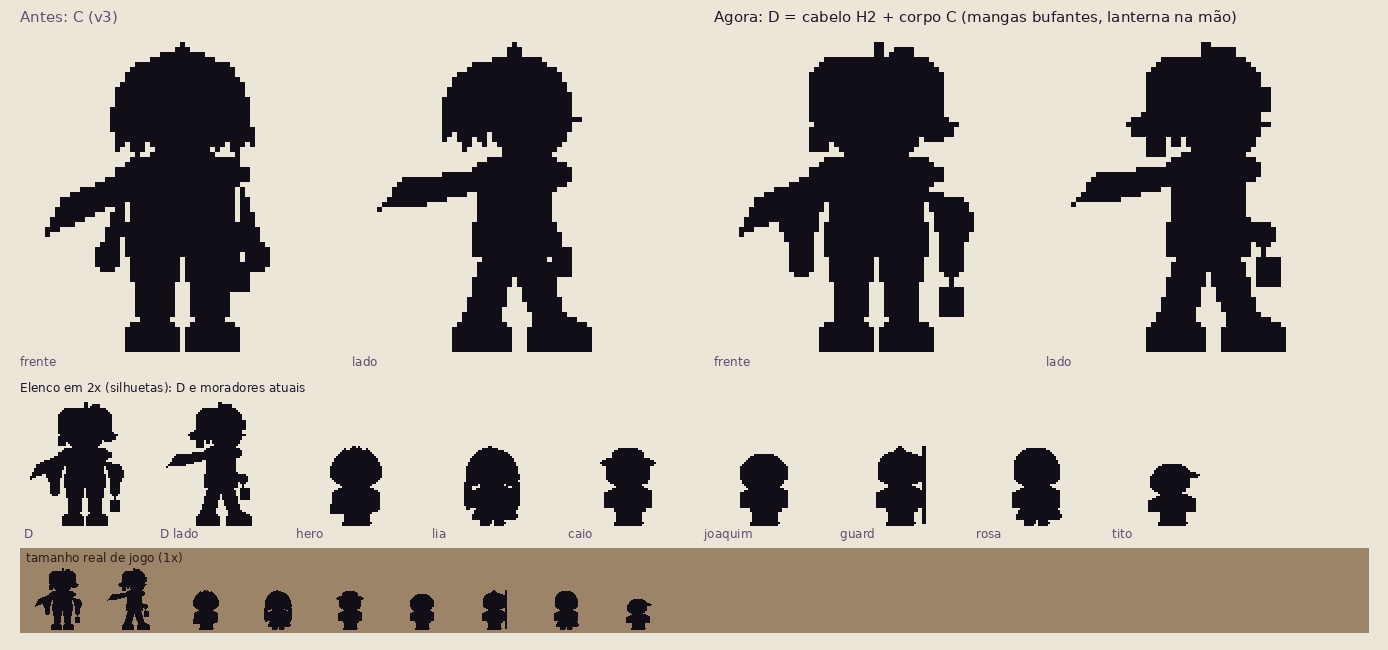
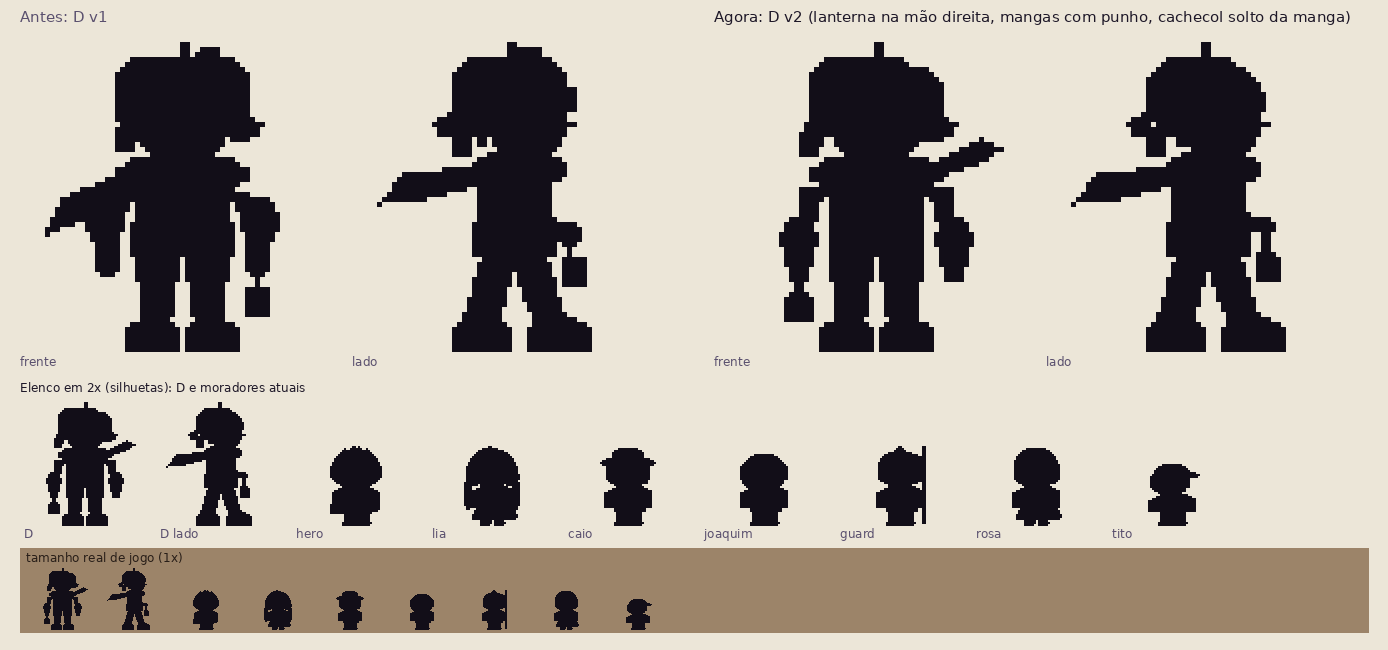
Hero: direction D v2 (lantern in right hand, cuffed puffy sleeves, scarf tail separated, cleaner hair top)
Claude-Session: https://claude.ai/code/session_01SH8uRb7GcbEgPpRqd4KMaR

diff --git a/assets/characters/hero/concepts/silhouettes/direction_D.py b/assets/characters/hero/concepts/silhouettes/direction_D.py
@@ -14,30 +14,37 @@ spec = importlib.util.spec_from_file_location("ms", os.path.join(HERE, "make_sil
 ms = importlib.util.module_from_spec(spec); spec.loader.exec_module(ms)
 BLACK = ms.BLACK
 
+# v2 (após crítica da D v1): lanterna sempre na MÃO DIREITA (frente: lado esquerdo da tela);
+# ponta do cachecol na frente vai para o outro lado, curta e alta (não funde com a manga);
+# manga bufante com volume no cotovelo/antebraço + punho franzido + mão; tronco reto (vão de 2 px em toda a altura);
+# lanterna com alça, tampa, corpo e base; topo do cabelo: só o fio + degrau raso de 2 px (sem "copa de chapéu").
 D_S = [
-    # cabelo H2 na escala da cabeça de C
-    ("rr", [19, 5, 45, 20, 5]), ("p", [(34, 6), (36, 3), (39, 3), (40, 6)]),
-    ("r", [19, 19, 22, 23]), ("r", [23, 19, 24, 21]), ("r", [42, 19, 45, 21]),
-    ("p", [(45, 16), (48, 18), (47, 20), (45, 20)]), ("r", [32, 2, 33, 4]),
-    ("e", [23, 9, 41, 26]),                                         # rosto: bochecha/mandíbula aparecem abaixo do cabelo
-    ("e", [19, 24, 45, 32]), ("p", [(21, 27), (8, 33), (5, 40), (12, 37), (23, 32)]),   # cachecol + ponta ao vento
-    ("p", [(23, 30), (41, 30), (42, 44), (22, 44)]),               # tronco
-    ("p", [(23, 31), (19, 32), (17, 35), (21, 35)]), ("e", [13, 33, 20, 42]), ("r", [15, 42, 19, 44]), ("e", [15, 44, 19, 48]),   # manga bufante esq.
-    ("p", [(41, 31), (45, 32), (47, 35), (43, 35)]), ("e", [44, 33, 51, 42]), ("r", [45, 42, 49, 44]), ("e", [45, 44, 49, 48]),   # manga bufante dir.
-    ("r", [47, 49, 47, 50]), ("r", [45, 51, 49, 56]),              # lanterna na mão direita
+    ("rr", [19, 5, 40, 20, 5]), ("rr", [26, 7, 45, 20, 5]),        # topo com degrau raso à direita
+    ("p", [(19, 17), (17, 20), (17, 24), (20, 24), (22, 19)]),     # mecha comprida abrindo para fora
+    ("r", [41, 19, 45, 21]), ("p", [(45, 16), (48, 18), (47, 20), (45, 20)]),   # mecha curta + mecha virada para fora
+    ("r", [32, 2, 33, 4]),                                          # fio do topo (ficha)
+    ("e", [23, 9, 41, 26]),
+    ("e", [19, 24, 45, 32]), ("p", [(43, 26), (53, 21), (57, 23), (52, 26), (46, 28)]),   # cachecol + ponta curta e alta
+    ("r", [23, 30, 41, 44]),                                        # tronco com bordas retas
+    ("p", [(23, 30), (19, 31), (17, 33), (21, 33)]), ("r", [17, 31, 20, 37]), ("e", [13, 37, 20, 45]),
+    ("r", [14, 45, 19, 46]), ("r", [15, 47, 18, 49]),               # braço direito do personagem: manga, punho, mão
+    ("r", [16, 50, 17, 51]), ("r", [15, 52, 18, 52]), ("r", [14, 53, 19, 56]), ("r", [14, 57, 19, 57]),   # lanterna
+    ("p", [(41, 30), (45, 31), (47, 33), (43, 33)]), ("r", [44, 31, 47, 37]), ("e", [44, 37, 51, 45]),
+    ("r", [45, 45, 50, 46]), ("r", [46, 47, 49, 49]),               # braço esquerdo
     ("p", [(23, 44), (31, 44), (30, 56), (24, 56)]), ("p", [(33, 44), (41, 44), (40, 56), (34, 56)]),
     ("r", [25, 56, 29, 58]), ("r", [35, 56, 39, 58]),
     ("e", [21, 57, 31, 63]), ("e", [33, 57, 43, 63]), ("r", [21, 60, 31, 63]), ("r", [33, 60, 43, 63]),
 ]
 D_E = [
-    ("rr", [20, 5, 42, 20, 5]), ("p", [(31, 6), (33, 3), (37, 3), (38, 6)]),
-    ("r", [20, 19, 23, 24]), ("r", [25, 19, 26, 22]), ("p", [(20, 15), (16, 18), (17, 20), (20, 20)]),
-    ("r", [42, 11, 44, 15]), ("r", [31, 2, 32, 4]),                # franja passa da testa
+    ("rr", [20, 5, 40, 20, 6]), ("rr", [24, 7, 42, 20, 5]),        # canto de trás mais redondo, degrau raso
+    ("r", [20, 19, 23, 24]), ("r", [26, 19, 28, 22]), ("p", [(20, 15), (16, 18), (17, 20), (20, 20)]),   # nuca: mechas com cortes de 2 px
+    ("r", [42, 12, 43, 15]), ("r", [31, 2, 32, 4]),                 # franja menor (não lê como aba de boné)
     ("e", [27, 9, 42, 26]), ("p", [(41, 16), (44, 18), (41, 20)]),
     ("e", [24, 23, 42, 31]), ("p", [(25, 26), (10, 28), (5, 34), (14, 33), (26, 30)]),
     ("p", [(25, 30), (39, 30), (40, 44), (24, 44)]),
-    ("e", [30, 32, 38, 40]), ("p", [(36, 38), (40, 37), (42, 40), (38, 41)]), ("e", [41, 38, 45, 42]),   # braço à frente segurando a lanterna
-    ("r", [43, 43, 43, 44]), ("r", [42, 45, 46, 50]),
+    ("r", [31, 31, 34, 35]), ("e", [32, 34, 41, 42]),              # manga bufante passa 1-2 px do tronco no cotovelo
+    ("r", [41, 37, 42, 39]), ("e", [42, 37, 45, 40]),              # punho + mão direita à frente
+    ("r", [43, 41, 44, 43]), ("r", [42, 44, 45, 44]), ("r", [42, 45, 46, 48]), ("r", [42, 49, 46, 49]),   # lanterna
     ("p", [(26, 44), (32, 44), (29, 57), (22, 57)]), ("p", [(31, 44), (38, 44), (42, 57), (36, 57)]),
     ("e", [20, 57, 31, 63]), ("e", [35, 57, 47, 63]), ("r", [20, 60, 31, 63]), ("r", [35, 60, 47, 63]),
 ]
@@ -65,12 +72,12 @@ def main(cast_dir):
         f = fs = ImageFont.load_default()
     d_s, d_e = draw(D_S), draw(D_E)
     d_s.save(os.path.join(HERE, "hero_sil_D_S.png")); d_e.save(os.path.join(HERE, "hero_sil_D_E.png"))
-    c_s, c_e = (Image.open(os.path.join(HERE, "hero_sil_C_%s.png" % v)) for v in "SE")
+    c_s, c_e = (Image.open(os.path.join(HERE, "history", "hero_sil_D_%s_v1.png" % v)) for v in "SE")
     S = 5
     W = 4 * (64 * S + 12) + 60
     b = Image.new("RGBA", (W, 64 * S + 330), (236, 230, 216, 255)); dr = ImageDraw.Draw(b)
-    dr.text((20, 8), "Antes: C (v3)", fill=(90, 80, 110, 255), font=f)
-    dr.text((20 + 2 * (64 * S + 12) + 30, 8), "Agora: D = cabelo H2 + corpo C (mangas bufantes, lanterna na mão)", fill=(30, 24, 40, 255), font=f)
+    dr.text((20, 8), "Antes: D v1", fill=(90, 80, 110, 255), font=f)
+    dr.text((20 + 2 * (64 * S + 12) + 30, 8), "Agora: D v2 (lanterna na mão direita, mangas com punho, cachecol solto da manga)", fill=(30, 24, 40, 255), font=f)
     for i, im in enumerate([c_s, c_e, d_s, d_e]):
         x = 20 + i * (64 * S + 12) + (30 if i > 1 else 0)
         b.alpha_composite(im.resize((64 * S, 64 * S), Image.NEAREST), (x, 32))

diff --git a/assets/characters/hero/character-spec.md b/assets/characters/hero/character-spec.md
@@ -27,6 +27,7 @@ Referência principal: `references/user-concept-01.jpg` (arte enviada pelo usuá
 - Figurino → função **[proposta]**: cachecol e suéter = viagem no frio da estrada; calça rasgada = longa caminhada; bolsa transversal = mantimentos e itens (no jogo, guarda a vara de pesca e futuros itens); botas = estrada.
 - Simbolismo **[proposta]**: tons terrosos e neutros = alguém comum, ainda sem identidade de domador; as cores das criaturas parceiras vão contrastar com ele.
 - O que NUNCA pode mudar entre vistas: cor e volume do cachecol, cabelo preto bagunçado, lado do rasgo na calça (joelho esquerdo), alça do ombro direito ao quadril esquerdo.
+- Decisões de silhueta (D v2) **[proposta]**: lanterna sempre na mão direita; bolsa transversal no quadril esquerdo fica legível só na fase de cor (na silhueta ela se funde com a mão).
 - Atenção técnica: o jogo espelha E→W; no espelho a alça e o rasgo trocam de lado. Decidir se aceita ou se desenhamos as 8 direções. **[em aberto]**
 
 ## Paleta (provisória, já em uso no jogo) **[jogo]**
@@ -46,7 +47,7 @@ Referência principal: `references/user-concept-01.jpg` (arte enviada pelo usuá
 | Ficha (fase A) | este arquivo | — | pendente |
 | Silhuetas (fase C) | `concepts/silhouettes/hero_silhouettes_board.png` (v3; histórico em `history/`) — proporções medidas: A ≈2,3 cabeças, B ≈1,8, C ≈2,7 | `hd2d-art-critic` v3: revisar (cabelo em sino, corpos sem mangas bufantes, lanterna de C ilegível, B redonda demais) | pendente |
 | Estudo de cabelo | `concepts/silhouettes/hair_study_board.png` (H1 reta, H2 média, H3 solta, no corpo de A) | autoavaliação: H2 mais equilibrada | pendente — usuário escolhe H1/H2/H3 |
-| Direção escolhida (silhueta) | `concepts/silhouettes/hero_direction_D_board.png` — **D = cabelo H2 + corpo C** (escolha do usuário), com mangas bufantes, vão de 2 px e lanterna na mão | crítico pendente | escolha feita pelo usuário; aprovação final pendente |
+| Direção escolhida (silhueta) | `concepts/silhouettes/hero_direction_D_board.png` — **D v2 = cabelo H2 + corpo C** (escolha do usuário); v1 em `history/` | crítico D v1: revisar (6 itens) → corrigidos na v2; reavaliação pendente | escolha feita pelo usuário; aprovação final pendente |
 | Conceito | — | — | — |
 | Model sheet | — | — | — |
 | Sprite 64×64 | — | — | — |
